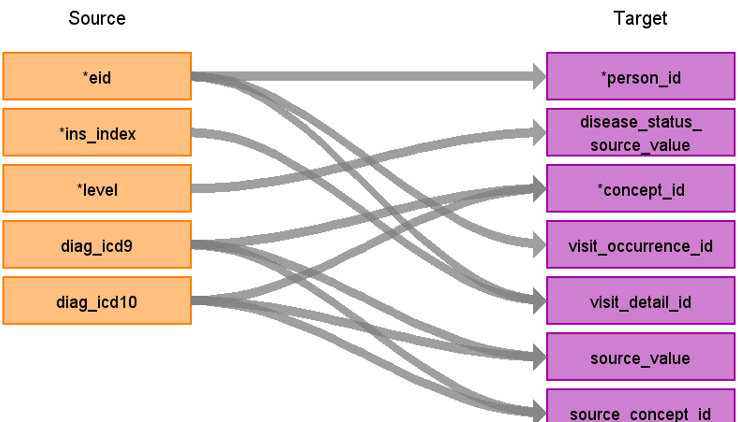
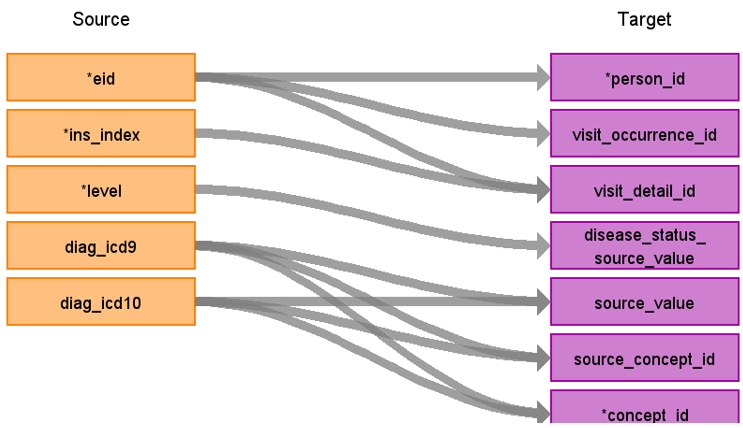
HESIN Minor Fix17

diff --git a/docs/UK_BIOBANK/UKB_HESIN/UKB_HESIN_STEM.md b/docs/UK_BIOBANK/UKB_HESIN/UKB_HESIN_STEM.md
@@ -19,17 +19,17 @@ description: "Stem table description"
 | id|||Autogenerate|
 | domain_id | NULL | | | 
 | person_id | eid | | | 
-| visit_occurrence_id |eid,<br>hesin.spell_index | | Use eid, hesin.spell_index to retrieve visit_occurrence_id |
-| visit_detail_id|eid,<br>ins_index ||Use eid, ins_index to retrieve visit_detail_id |
-| source_value| diag_icd9,<br>diag_icd10 |Add dots when necessary | diag_icd9 & diag_icd10 are mutually exclusive they are provided without dots|
+| visit_occurrence_id |eid,<br>hesin.spell_index | |  |
+| visit_detail_id|eid,<br>ins_index || |
+| source_value| diag_icd9,<br>diag_icd10 |add dots when necessary | diag_icd9 and diag_icd10 are mutually exclusive; they are provided without dots|
 | source_concept_id | diag_icd9,<br>diag_icd10 | | |
 | type_concept_id |  | [32829 - EHR administration record](https://athena.ohdsi.org/search-terms/terms/32829)| | |
 | start_date | hesin.epistart,<br>hesin.admidate | | use the first not null of (hesin.epistart, hesin.admidate) |
 | start_datetime | hesin.epistart,<br>hesin.admidate|   | |
 | end_date | hesin.epiend,<br>hesin.disdate,<br>hesin.epistart,<br>hesin.admidate | | use the first not null of (hesin.epiend,hesin.disdate,hesin.epistart,hesin.admidate)|
 | end_datetime | hesin.epiend,<br>hesin.disdate,<br>hesin.epistart,<br>hesin.admidate | | |
-| concept_id  |  diag_icd9,<br>diag_icd10 | use icd9cm or icd10 vocabulary depending on the presence of diag_icd9 or diag_icd10  |  |
-| disease_status_source_value |level | use  [32902](https://athena.ohdsi.org/search-terms/terms/32902) for primary diagnosis or [32908](https://athena.ohdsi.org/search-terms/terms/32908)  for secondary diagnosis| |
+| concept_id  |  diag_icd9,<br>diag_icd10 |   | use ICD9CM or ICD10 vocabulary depending on the presence of diag_icd9 or diag_icd10 |
+| disease_status_source_value |level | | use  [32902](https://athena.ohdsi.org/search-terms/terms/32902) for primary diagnosis (level = 1) or [32908](https://athena.ohdsi.org/search-terms/terms/32908)  for secondary diagnosis (level > 1)|
 | stem_source_table | | hesin_diag | |
  
 ## Reading from hesin_oper, hesin
